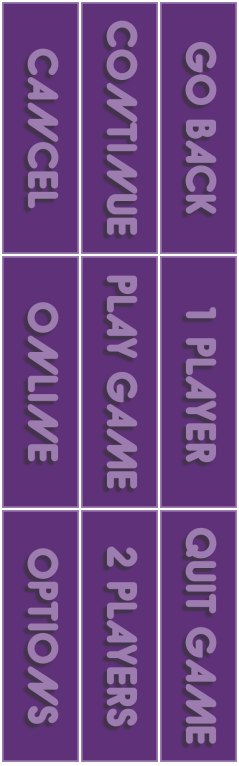
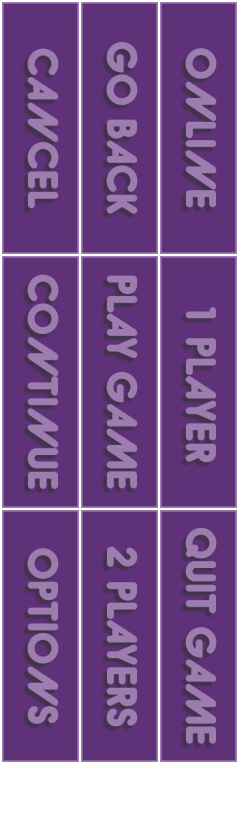
kl

diff --git a/src/web/tictactoe/src/mmenu.js b/src/web/tictactoe/src/mmenu.js
@@ -109,10 +109,10 @@ define("zotohlab/p/mmenu", ['cherimoia/skarojs',
         menu.setPosition(cw.x, cw.y);
         this.addItem(menu);
 
-        this.doAudioToggle();
+        this.doControls();
       },
 
-      doAudioToggle: function() {
+      doControls: function() {
         var off= new cc.MenuItemSprite(ccsx.createSpriteFrame('sound_off.png'),
                                        ccsx.createSpriteFrame('sound_off.png'),
                                        ccsx.createSpriteFrame('sound_off.png'),
@@ -121,6 +121,7 @@ define("zotohlab/p/mmenu", ['cherimoia/skarojs',
                                   ccsx.createSpriteFrame('sound_on.png'),
                                   ccsx.createSpriteFrame('sound_on.png'),
                                   sjs.NILFUNC, this),
+        sz, me=this,
         audio, menu, wb = ccsx.vbox();
         //off.setColor(cc.color(157,125,176));
         //on.setColor(cc.color(157,125,176));
@@ -133,17 +134,54 @@ define("zotohlab/p/mmenu", ['cherimoia/skarojs',
             sh.toggleSfx(false);
           }
         });
-        audio.setAnchorPoint(cc.p(0,0));
+        audio.setAnchorPoint(cc.p(1,0));
         if (xcfg.sound.open) {
           audio.setSelectedIndex(0);
         } else {
           audio.setSelectedIndex(1);
         }
-        //audio.setScale(32/off.getContentSize().width);
+
         menu= new cc.Menu(audio);
-        menu.setPosition(wb.left + csts.TILE + csts.S_OFF,
-                         wb.bottom + csts.TILE + csts.S_OFF);
+        menu.setPosition(wb.right - csts.TILE ,
+                         wb.bottom + csts.TILE);
         this.addItem(menu);
+
+        menu= ccsx.pmenu([
+          { imgPath: '#icon_back.png',
+            cb: function() {
+              this.options.onBack();
+            },
+            color: cc.color(94,49,120),
+            target: me },
+
+          { imgPath: '#icon_quit.png',
+            cb: function() {
+              this.onQuit();
+            },
+            color: cc.color(94,49,120),
+            target: me },
+        ]);
+        menu.alignItemsHorizontallyWithPadding(8);
+        sz= menu.getChildren()[0].getContentSize();
+        //menu.setAnchorPoint(cc.p(0,0.5));
+        menu.setPosition(wb.left + csts.TILE + sz.width * 1.1,
+                         wb.bottom + csts.TILE + sz.height * 0.45);
+        this.addItem(menu);
+      },
+
+      onQuit: function() {
+        var ss= sh.protos['StartScreen'],
+        yn= sh.protos['YesNo'],
+        dir = cc.director;
+
+        dir.pushScene( yn.create({
+          onBack: function() { dir.popScene(); },
+          yes: function() {
+            sh.sfxPlay('game_quit');
+            dir.popToRootScene();
+            dir.runScene(ss.create());
+          }
+        }));
       }
 
     });

diff --git a/src/web/cocos2d/src/zotohlab/ext/cs2dx.js b/src/web/cocos2d/src/zotohlab/ext/cs2dx.js
@@ -418,7 +418,8 @@ define("zotohlab/asx/ccsx", ['cherimoia/skarojs',
                                     new cc.Sprite(obj.imgPath),
                                     obj.cb,
                                     obj.target);
-          if (sjs.echt(scale)) { mi.setScale(scale); }
+          if (!!obj.color) { mi.setColor(obj.color); }
+          if (!!scale) { mi.setScale(scale); }
           mi.setTag(++t);
           menu.addChild(mi);
         }
